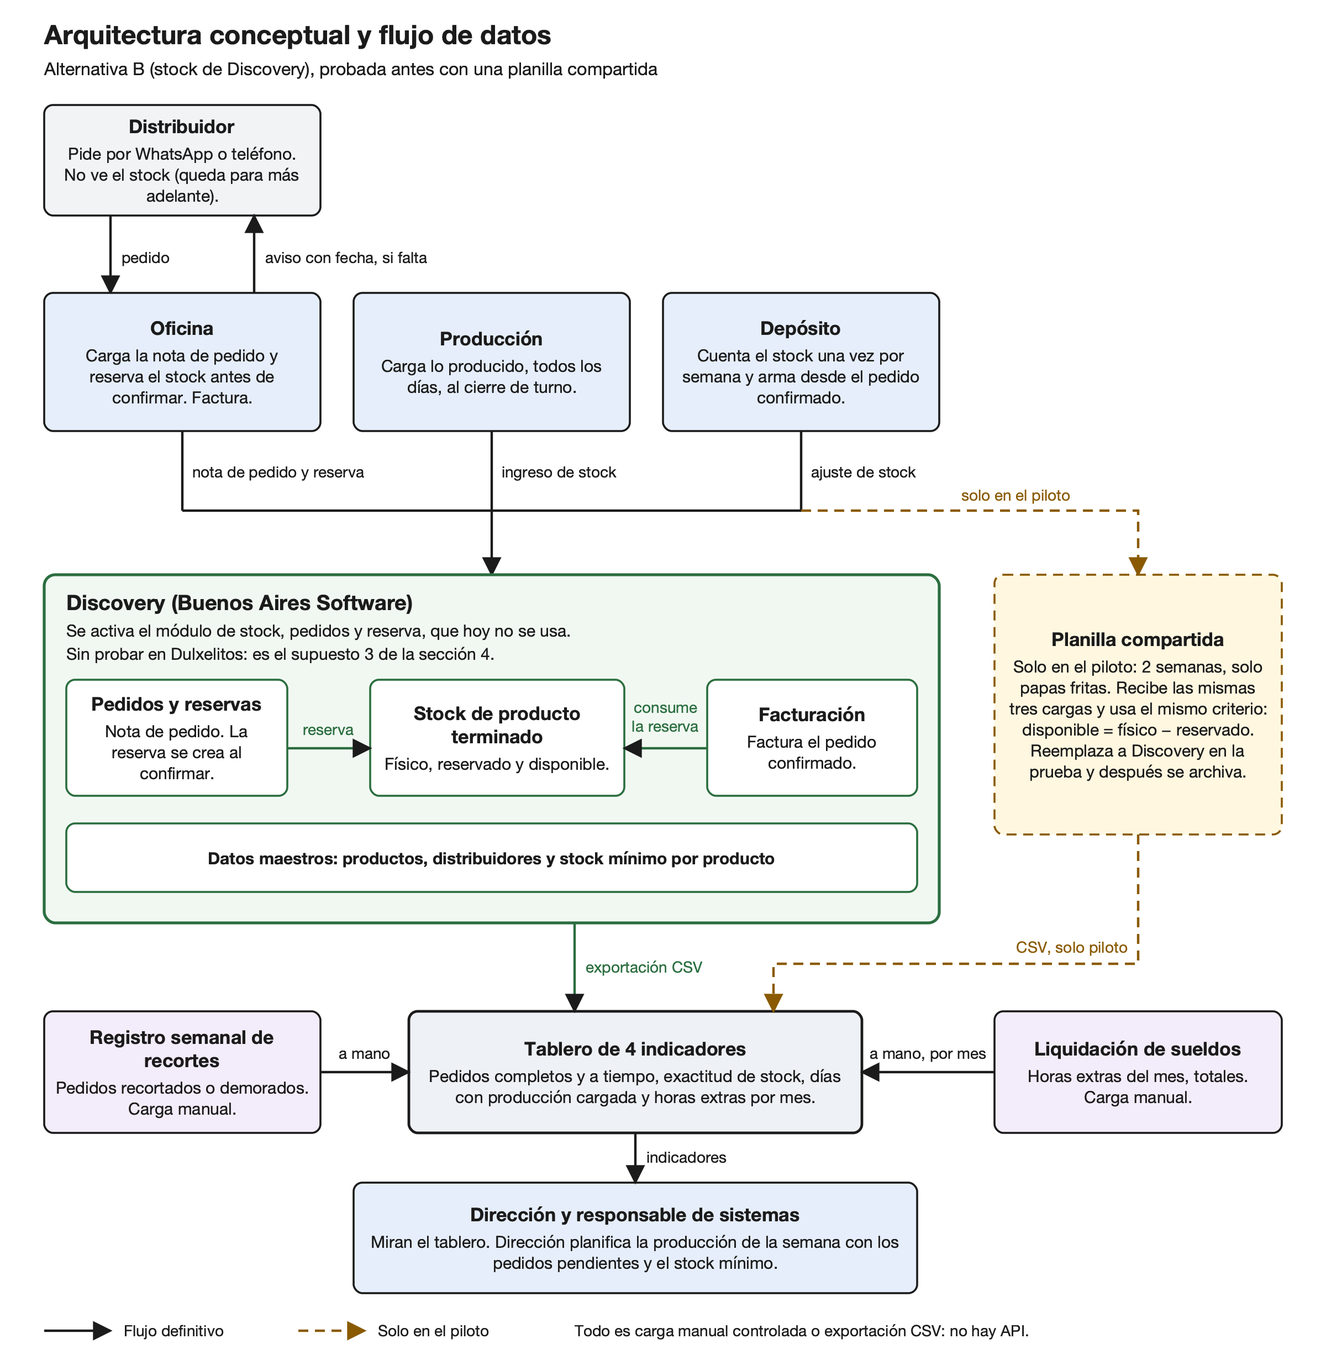
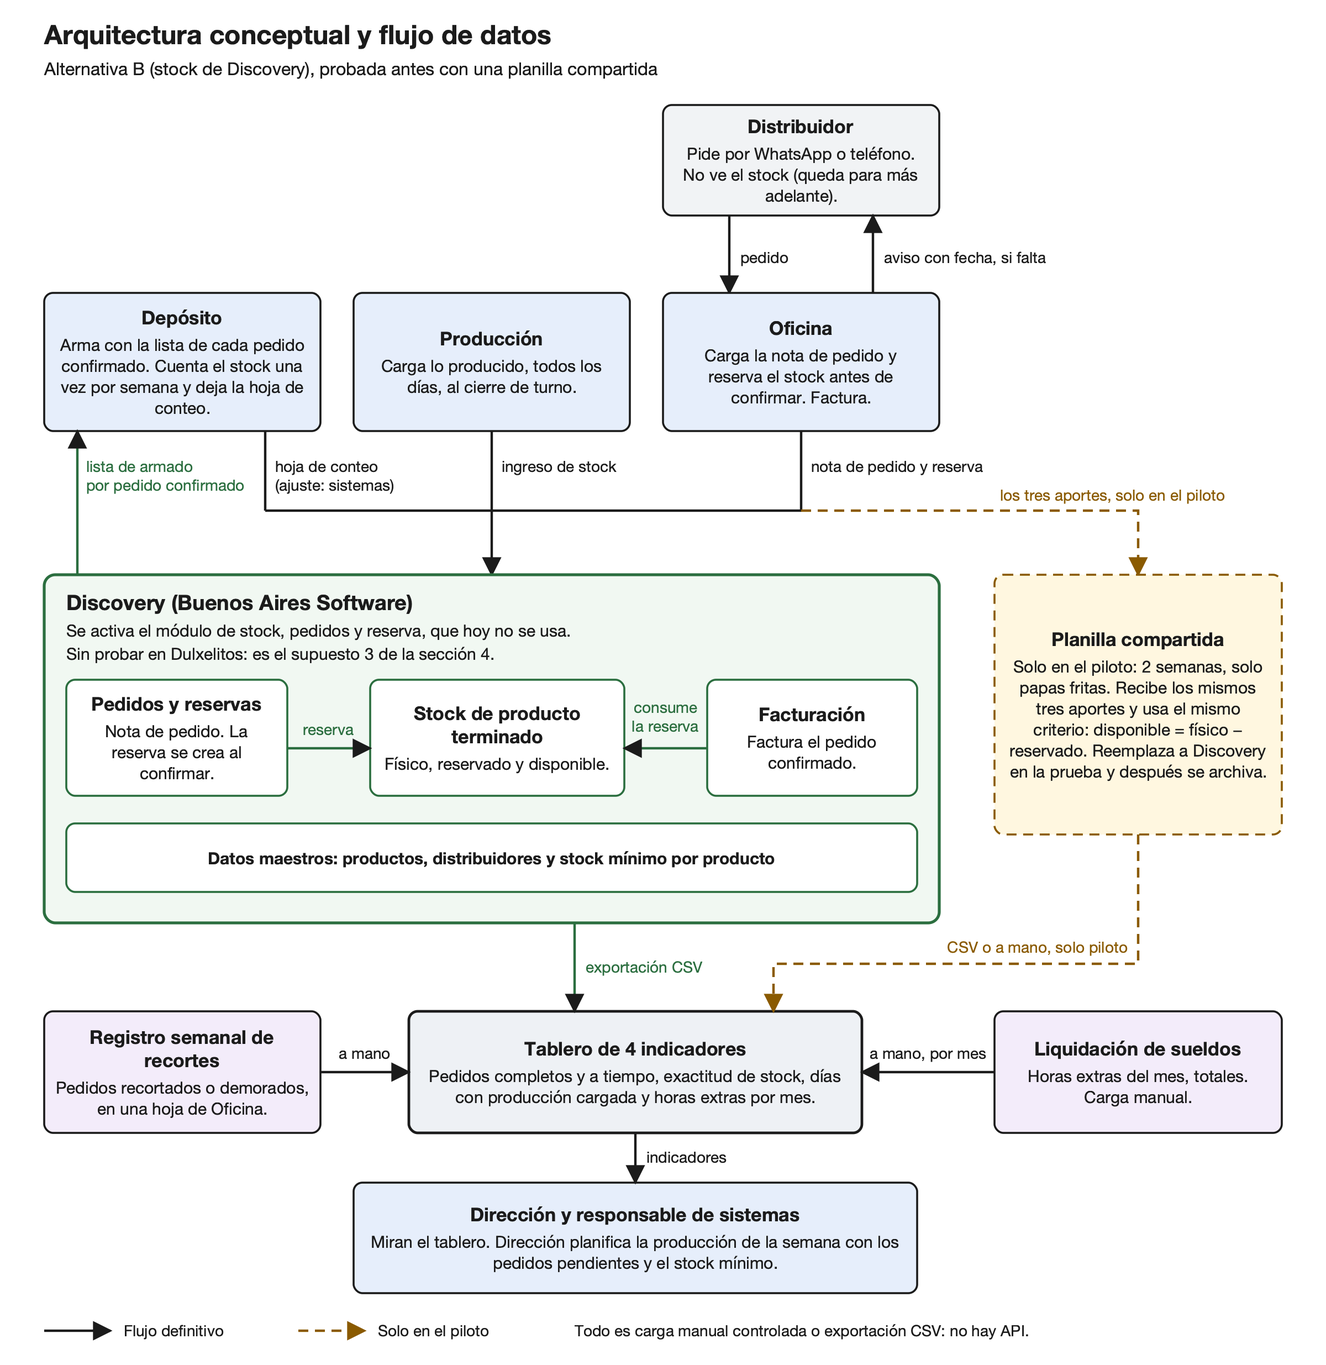
Sección 6: roles coherentes, lista de armado y correcciones de revisión
El ajuste de conteo lo carga el responsable de sistemas (única excepción: el
parte de producción mal cargado). Se agrega el flujo Discovery a Depósito
(lista de armado) en datos, integraciones y diagrama. La licencia del módulo
queda como supuesto atribuido y pendiente. Se corta la tabla repetida.

diff --git a/Material Campus/Proyecto Final/Proyecto Parte 2/diagramas/generar_arquitectura.py b/Material Campus/Proyecto Final/Proyecto Parte 2/diagramas/generar_arquitectura.py
@@ -117,11 +117,11 @@ texto(40, 40, "Arquitectura conceptual y flujo de datos", 24, "start", True)
 texto(40, 68, "Alternativa B (stock de Discovery), probada antes con una planilla compartida",
       16, "start")
 
-# columnas de las personas, encima del registro
-XO, XP, XD, WA = 40, 320, 600, 250          # Oficina, Produccion, Deposito; ancho
-CO, CP, CD = XO + WA / 2, XP + WA / 2, XD + WA / 2
+# columnas de las personas, encima del registro: Deposito, Produccion, Oficina
+XD, XP, XO, WA = 40, 320, 600, 250
+SD, SP, SO = 240, XP + WA / 2, XO + WA / 2   # donde baja la carga de cada una
 
-# fila 1: el distribuidor
+# fila 1: el distribuidor, encima de Oficina
 caja(XO, 95, WA, 100, "Distribuidor", "Pide por WhatsApp o teléfono. No ve el stock (queda para más adelante).",
      relleno="#f1f3f5")
 flecha([(XO + 60, 195), (XO + 60, 265)])
@@ -129,25 +129,32 @@ texto(XO + 70, 238, "pedido", 14, "start")
 flecha([(XO + 190, 265), (XO + 190, 195)])
 texto(XO + 200, 238, "aviso con fecha, si falta", 14, "start")
 
-# fila 2: quienes cargan
+# fila 2: quienes aportan datos
 AZUL = "#e6eefb"
-caja(XO, 265, WA, 125, "Oficina",
-     "Carga la nota de pedido y reserva el stock antes de confirmar. Factura.", relleno=AZUL)
+caja(XD, 265, WA, 125, "Depósito",
+     "Arma con la lista de cada pedido confirmado. Cuenta el stock una vez por semana y "
+     "deja la hoja de conteo.", relleno=AZUL)
 caja(XP, 265, WA, 125, "Producción",
      "Carga lo producido, todos los días, al cierre de turno.", relleno=AZUL)
-caja(XD, 265, WA, 125, "Depósito",
-     "Cuenta el stock una vez por semana y arma desde el pedido confirmado.", relleno=AZUL)
+caja(XO, 265, WA, 125, "Oficina",
+     "Carga la nota de pedido y reserva el stock antes de confirmar. Factura.", relleno=AZUL)
+
+# Discovery le devuelve a Deposito la lista de armado (flecha hacia arriba, sin cruzar el bus)
+flecha([(70, 520), (70, 390)], color="#2b6e3f")
+texto(78, 427, "lista de armado", 14, "start", color="#2b6e3f")
+texto(78, 444, "por pedido confirmado", 14, "start", color="#2b6e3f")
 
 # bus: las tres cargas entran juntas a Discovery (solido) o a la planilla (punteado, piloto)
 Y_BUS = 462
-for cx, et in ((CO, "nota de pedido y reserva"), (CP, "ingreso de stock"), (CD, "ajuste de stock")):
+for cx, et in ((SD, "hoja de conteo"), (SP, "ingreso de stock"), (SO, "nota de pedido y reserva")):
     flecha([(cx, 390), (cx, Y_BUS)], punta=False)
-    texto(cx + 9, 432, et, 14, "start")
-flecha([(CO, Y_BUS), (CD, Y_BUS)], punta=False)
+    texto(cx + 9, 427, et, 14, "start")
+texto(SD + 9, 444, "(ajuste: sistemas)", 14, "start")
+flecha([(SD, Y_BUS), (SO, Y_BUS)], punta=False)
 X_PLAN = 1030
-flecha([(CD, Y_BUS), (X_PLAN, Y_BUS), (X_PLAN, 520)], punteada=True, color="#8a5a00")
-texto(870, Y_BUS - 9, "solo en el piloto", 14, "start", color="#8a5a00")
-flecha([(CP, Y_BUS), (CP, 520)])
+flecha([(SO, Y_BUS), (X_PLAN, Y_BUS), (X_PLAN, 520)], punteada=True, color="#8a5a00")
+texto(905, Y_BUS - 9, "los tres aportes, solo en el piloto", 14, "start", color="#8a5a00")
+flecha([(SP, Y_BUS), (SP, 520)])
 
 # fila 3: Discovery y la planilla
 XDI, YDI, WDI, HDI = 40, 520, 810, 315
@@ -174,7 +181,7 @@ texto(445, 782, "Datos maestros: productos, distribuidores y stock mínimo por p
       15, "middle", True)
 
 caja(900, 520, 260, 235, "Planilla compartida",
-     "Solo en el piloto: 2 semanas, solo papas fritas. Recibe las mismas tres cargas y usa el "
+     "Solo en el piloto: 2 semanas, solo papas fritas. Recibe los mismos tres aportes y usa el "
      "mismo criterio: disponible = físico − reservado. Reemplaza a Discovery en la prueba y "
      "después se archiva.",
      relleno="#fff7e0", borde="#8a5a00", punteada=True)
@@ -182,21 +189,21 @@ caja(900, 520, 260, 235, "Planilla compartida",
 # fila 4: lo que alimenta al tablero
 YT, HT = 915, 110
 XT, WT = 370, 410
-caja(XO, YT, WA, HT, "Registro semanal de recortes",
-     "Pedidos recortados o demorados. Carga manual.", relleno="#f3ecfa")
+caja(40, YT, 250, HT, "Registro semanal de recortes",
+     "Pedidos recortados o demorados, en una hoja de Oficina.", relleno="#f3ecfa")
 caja(900, YT, 260, HT, "Liquidación de sueldos", "Horas extras del mes, totales. Carga manual.",
      relleno="#f3ecfa")
 caja(XT, YT, WT, HT, "Tablero de 4 indicadores",
      "Pedidos completos y a tiempo, exactitud de stock, días con producción cargada y horas "
      "extras por mes.", relleno="#eef1f5", trazo=2.4)
-flecha([(XO + WA, YT + 55), (XT, YT + 55)])
-texto((XO + WA + XT) / 2, YT + 43, "a mano", 14)
+flecha([(40 + 250, YT + 55), (XT, YT + 55)])
+texto((40 + 250 + XT) / 2, YT + 43, "a mano", 14)
 flecha([(900, YT + 55), (XT + WT, YT + 55)])
 texto((900 + XT + WT) / 2, YT + 43, "a mano, por mes", 14)
 flecha([(520, 835), (520, YT)], color=VERDE)
 texto(530, 880, "exportación CSV", 14, "start", color=VERDE)
 flecha([(X_PLAN, 755), (X_PLAN, 872), (700, 872), (700, YT)], punteada=True, color="#8a5a00")
-texto(1020, 862, "CSV, solo piloto", 14, "end", color="#8a5a00")
+texto(1020, 862, "CSV o a mano, solo piloto", 14, "end", color="#8a5a00")
 
 # fila 5: quien mira
 caja(320, 1070, 510, 100, "Dirección y responsable de sistemas",

diff --git a/Material Campus/Proyecto Final/Proyecto Parte 2/06 - Arquitectura y datos.md b/Material Campus/Proyecto Final/Proyecto Parte 2/06 - Arquitectura y datos.md
@@ -2,7 +2,7 @@
 
 Esta sección dibuja la alternativa recomendada (la B: el stock de Discovery, probado antes con una planilla compartida) como cajas y flechas, y dice qué datos se mueven, quién los carga, cómo pasan de un lugar a otro y qué reglas los mantienen limpios. Parte de lo que corrige la sección 1: el stock de producto terminado no se registra. Por eso lo primero que dibujamos es el lugar donde va a vivir.
 
-La guía de la cátedra pregunta si una empresa chica necesita un diagrama de la NASA o un flujo simple. Para una pyme de 15 a 20 personas la respuesta es el flujo simple, y lo planteamos así: **un solo sistema, y ya lo tienen.** Es Discovery, que hoy usan para facturar. A eso se suman una planilla compartida que existe solo durante el piloto de 2 semanas y un tablero con cuatro indicadores. No hay nada que comprar, ninguna integración automática y ningún canal nuevo: tres áreas cargan datos en un solo lugar, y de ahí salen los números que miran la dirección y el responsable de sistemas.
+La guía de la cátedra pregunta si una empresa chica necesita un diagrama de la NASA o un flujo simple. Para una pyme de 15 a 20 personas la respuesta es el flujo simple, y lo planteamos así: **un solo sistema, y ya lo tienen.** Es Discovery, que hoy usan para facturar. A eso se suman una planilla compartida que existe solo durante el piloto de 2 semanas y un tablero con cuatro indicadores. No hay ningún sistema nuevo que comprar (el costo de activar el módulo de stock está pendiente, sección 4), ninguna integración automática y ningún canal nuevo: las áreas aportan sus datos a un solo lugar, y de ahí salen la lista para armar cada pedido y los números que miran la dirección y el responsable de sistemas.
 
 ## Diagrama
 
@@ -10,23 +10,13 @@ La guía de la cátedra pregunta si una empresa chica necesita un diagrama de la
 
 ### Cómo se lee
 
-- **Tres áreas cargan, un solo lugar guarda.** Oficina carga la nota de pedido y reserva el stock antes de confirmar. Producción carga lo producido todos los días, al cierre del turno. Depósito cuenta el stock una vez por semana y lo que encuentra se vuelve un ajuste. Las tres cargas entran juntas a Discovery.
+- **Tres áreas aportan, un solo lugar guarda.** Oficina carga la nota de pedido y reserva el stock antes de confirmar. Producción carga lo producido todos los días, al cierre del turno. Depósito cuenta el stock una vez por semana y deja la hoja de conteo, que el responsable de sistemas carga como ajuste. Los tres aportes entran juntos a Discovery. Y de Discovery sale, para cada pedido confirmado, la lista de armado que usa Depósito: es lo que se gana por cargar el pedido una sola vez.
 - **Una sola regla de stock.** Dentro de Discovery, **stock disponible = stock físico − reservado por pedidos confirmados sin facturar.** Oficina consulta el disponible antes de confirmar; la reserva lo baja, y la factura consume la reserva. La producción del día suma al stock físico y el conteo lo corrige.
-- **La planilla es solo del piloto.** Va punteada en el diagrama porque dura 2 semanas, con papas fritas, el producto que más falta. Recibe las mismas tres cargas y usa la misma regla de stock disponible. Después del Go/No-Go se archiva. Sirve para probar el hábito de la carga diaria antes de depender de Discovery.
-- **El tablero no guarda nada propio.** Muestra los cuatro indicadores de la sección 8 y se alimenta de tres lados: la exportación CSV de Discovery, el registro semanal de pedidos recortados o demorados y las horas extras de la liquidación de sueldos.
+- **La planilla de stock es solo del piloto.** Va punteada en el diagrama porque dura 2 semanas, con papas fritas, el producto que más falta. Recibe los mismos tres aportes (por eso el diagrama los muestra juntos antes de bifurcar) y usa la misma regla de stock disponible. Después del Go/No-Go se archiva. Sirve para probar el hábito de la carga diaria antes de depender de Discovery.
+- **El tablero no guarda nada propio.** Muestra los cuatro indicadores de la sección 8 y se alimenta de tres lados: la exportación CSV de Discovery, el registro semanal de pedidos recortados o demorados y las horas extras de la liquidación de sueldos. No hace falta otra herramienta: puede ser una hoja simple, y el formato lo fija la sección 8.
 - **El distribuidor queda afuera de los datos.** Sigue pidiendo por WhatsApp o teléfono y recibe el aviso con una fecha estimada si falta algo, pero no ve el stock. Esa visibilidad queda para "later" (sección 1).
 
-### Qué hay y qué no hay
-
-| Pieza | ¿Está? | Por qué |
-|---|---|---|
-| Discovery | Sí | Ya está en uso para facturar y el módulo de stock, pedidos y reserva está dentro de la licencia. Es la solución (alternativa B) |
-| Planilla compartida | Solo en el piloto | Es la alternativa A, usada como prueba. No queda como un segundo registro |
-| Tablero de indicadores | Sí, sin ser un sistema nuevo | Es una vista de cuatro números que se actualiza con los CSV y dos cargas manuales. Puede ser una hoja simple; el formato lo fija la sección 8 |
-| WhatsApp y teléfono | Sí, como hoy | Son el canal de pedidos. No sumamos WhatsApp Business ni CRM, que están fuera de alcance |
-| SaaS de gestión, API, conectores, tienda online, portal del distribuidor | No | El SaaS se evaluó y se descartó en la sección 2. El resto no hace falta para el problema y no entra en el alcance |
-
-**Lo que el diagrama da por cierto y no está probado.** Supone que el módulo de stock de Discovery permite pedidos y reserva, y que la facturación consume la reserva. Es lo que sabe nuestro compañero que trabaja en la empresa, pero nadie lo usó en Dulxelitos: es el supuesto 3 de la sección 4. Por eso el diseño de los datos no depende de la herramienta: la planilla del piloto maneja los mismos datos con la misma regla. Si Discovery no se comporta así, el flujo sigue en pie con la planilla (alternativa A) y lo único que cambia es dónde está el registro.
+**Lo que el diagrama da por cierto y no está probado.** Supone que el módulo de stock de Discovery permite pedidos y reserva, y que la facturación consume la reserva. Supone también que ese módulo está dentro de la licencia que ya pagan, y que activarlo no cuesta de más. Todo eso es lo que sabe nuestro compañero que trabaja en la empresa, pero nadie lo usó en Dulxelitos y falta confirmarlo con Buenos Aires Software (versión de Discovery, soporte incluido y costo de activarlo, que siguen pendientes en las secciones 4, 5 y 7). Es el supuesto 3 de la sección 4. Por eso el diseño de los datos no depende de la herramienta: la planilla del piloto maneja los mismos datos con la misma regla. Si Discovery no se comporta así, el flujo sigue en pie con la planilla (alternativa A) y lo único que cambia es dónde está el registro.
 
 ## Datos
 
@@ -51,9 +41,10 @@ Se generan todos los días con el trabajo. Son los que hoy no existen o están r
 | **Notas de pedido** (distribuidor, productos, cantidades) | Pedido del distribuidor por WhatsApp o teléfono, recibido por Oficina | Discovery | Confirmar sabiendo qué hay, armar el pedido, facturar y contar los pedidos recibidos. Reemplaza las tres transcripciones de hoy (chat, papel, lista) | Oficina |
 | **Reservas** (producto y cantidad por pedido confirmado sin facturar) | La nota de pedido, en el momento de confirmarla | Discovery (stock reservado) | Calcular el stock disponible. La factura la consume | Oficina |
 | **Partes de producción** (producto y cantidad producida en el día) | Producción, al cierre del turno | Discovery (suma al stock físico) | Tener el stock físico al día y planificar contra pedidos. Reemplaza al control semanal propio de Producción (falta confirmar qué contiene) | Responsable de carga del turno, con suplente |
-| **Conteos físicos** (producto, cantidad contada, fecha) | Depósito, en el conteo cíclico semanal | Discovery, como ajuste con motivo, y el cálculo de exactitud | Corregir el stock físico y medir la exactitud de stock. [dato pendiente: responsable del conteo inicial y del semanal] | Depósito |
-| **Facturas** | Discovery, cuando Oficina factura el pedido | Discovery | Cobrar y cerrar el pedido. Consume la reserva y baja el stock físico (a confirmar en el supuesto 3) | Oficina (facturación) |
-| **Registro semanal de pedidos recortados o demorados** | Oficina, que sabe qué pedidos salieron incompletos o fuera de plazo | Tablero | Indicador de pedidos completos y a tiempo. Es el registro que dio la semana base | Oficina* |
+| **Conteos físicos** (producto, cantidad contada, fecha) | Depósito, que cuenta y deja la hoja de conteo en el conteo cíclico semanal | Discovery, como ajuste con motivo que carga el responsable de sistemas, y el cálculo de exactitud | Corregir el stock físico y medir la exactitud de stock. [dato pendiente: responsable del conteo inicial y del semanal] | Depósito cuenta; responsable de sistemas carga el ajuste |
+| **Lista de armado** (productos y cantidades de cada pedido confirmado) | Discovery, a partir de la nota de pedido confirmada | Depósito, impresa o en pantalla | Armar el pedido desde un solo registro, sin volver a pasar el chat al papel y el papel a una lista. Ver el listado en Integraciones | Oficina, al confirmar el pedido |
+| **Facturas** | La nota de pedido confirmada, cuando Oficina factura | Discovery | Cobrar y cerrar el pedido. Consume la reserva y baja el stock físico (a confirmar en el supuesto 3) | Oficina (facturación) |
+| **Registro semanal de pedidos recortados o demorados** | Oficina, que sabe qué pedidos salieron incompletos o fuera de plazo, en una hoja compartida simple | Tablero | Indicador de pedidos completos y a tiempo. Es el registro que dio la semana base | Oficina* |
 | **Horas extras del mes** (totales) | Liquidación de sueldos | Tablero | Indicador de horas extras. La liquidación no distingue las planificadas de las no planificadas | Oficina (administración)* |
 
 ### Datos calculados
@@ -71,6 +62,7 @@ Nadie los carga: se calculan solos o con una fórmula fija.
 |---|---|---|---|---|
 | Pedido del distribuidor → Discovery | Carga manual, una sola vez, directo en Discovery | Al recibir el pedido; la reserva, al confirmarlo | Oficina | Producto y distribuidor se eligen de los maestros, no se escriben a mano. No se confirma sin consultar el disponible |
 | Producción → Discovery | Carga manual del parte del día | Todos los días, al cierre del turno | Responsable de carga del turno, con suplente | Una carga por producto producido. Si un día no se carga, el indicador de días con producción cargada lo muestra |
+| Discovery → Depósito | Lista de armado por pedido confirmado, impresa o en pantalla [dato pendiente: qué listado de armado emite Discovery] | Al confirmar cada pedido | Oficina confirma; Depósito arma | Depósito arma solo desde pedidos confirmados, que ya tienen la reserva hecha |
 | Depósito → Discovery | Hoja de conteo, y después el ajuste cargado a mano | Una vez por semana | Depósito cuenta; el responsable de sistemas carga el ajuste | Se compara contra Discovery antes de ajustar. La diferencia queda registrada y es la exactitud de stock |
 | Discovery → tablero | Exportación CSV | Cada semana* | Responsable de sistemas | Los totales del tablero se pueden recalcular desde el CSV. Si el resultado no coincide con Discovery, manda Discovery |
 | Registro de recortes → tablero | Carga manual | Cada semana* | Oficina* | Se anota un pedido por línea, con el motivo del recorte o de la demora |
@@ -83,7 +75,8 @@ Nadie los carga: se calculan solos o con una fórmula fija.
 
 **Lo que no integramos y por qué.**
 
-- **WhatsApp con Discovery.** El pedido sigue entrando por chat y se carga a mano. Conectarlos pediría una API que no existe y un CRM, que es otro problema y está fuera de alcance.
+- **WhatsApp con Discovery.** El pedido sigue entrando por chat y se carga a mano. Conectarlos pediría una API que no existe y un CRM, que es otro problema y está fuera de alcance. Tampoco sumamos WhatsApp Business.
+- **SaaS de gestión, tienda online y portal del distribuidor.** El SaaS se evaluó y se descartó en la sección 2. La tienda y el portal no hacen falta para este problema y quedan fuera del alcance.
 - **Discovery con el distribuidor.** El distribuidor no consulta el stock. Primero tiene que haber un stock confiable; recién después se le puede mostrar ("later").
 - **Costeo, listas de precios, insumos y packaging.** No son parte de este problema (sección 1).
 
@@ -91,7 +84,7 @@ Nadie los carga: se calculan solos o con una fórmula fija.
 
 Las reglas valen para los datos críticos: el stock físico, las reservas, los productos, los distribuidores y el stock mínimo. Son simples a propósito, porque las tiene que poder cumplir una empresa de 15 a 20 personas con la planta saturada. Tres principios las sostienen:
 
-1. **Un solo lugar por dato.** Cada dato vive en Discovery. La planilla solo existe en el piloto, y solo para el producto del piloto.
+1. **Un solo lugar por dato.** Cada dato de pedidos y stock vive en Discovery. La planilla de stock solo existe en el piloto, y solo para el producto del piloto. Dos datos viven afuera porque Discovery no los tiene: el registro semanal de recortes, en una hoja compartida simple que lleva Oficina, y las horas extras, que salen de la liquidación de sueldos.
 2. **No se borra, se corrige.** Un error se arregla con un movimiento nuevo y un motivo escrito, que deja rastro. Nadie pisa un número.
 3. **Lo que se cuenta manda sobre lo que se cargó.** Si el conteo físico y Discovery no coinciden, se corrige Discovery.
 
@@ -99,10 +92,10 @@ Las reglas valen para los datos críticos: el stock físico, las reservas, los p
 
 | Rol | Puede cargar | No toca |
 |---|---|---|
-| Oficina | Notas de pedido, reservas y facturas | El stock físico |
-| Producción (responsable de carga del turno y suplente) | Partes de producción | Reservas ni facturas |
+| Oficina | Notas de pedido, reservas, facturas y altas de distribuidores | El stock físico ni los productos |
+| Producción (responsable de carga del turno y suplente) | Partes de producción, y la corrección de sus propios partes el mismo día | Reservas ni facturas |
 | Depósito | La hoja de conteo | Los ajustes de stock |
-| Responsable de sistemas | Maestros, ajustes de stock y permisos | Pedidos ni partes, salvo para corregirlos |
+| Responsable de sistemas | Productos y stock mínimo, ajustes de stock, depuración de maestros y permisos | Pedidos ni partes, salvo para corregirlos |
 | Dirección | Fija el stock mínimo y pide las altas de productos | Discovery: no carga ahí |
 
 Si Discovery no permite separar los permisos así, la regla se sostiene por procedimiento y se revisa en el conteo semanal. Varias de estas tareas caen en el responsable de sistemas (ajustes, maestros, exportación), así que el tiempo que puede dedicarle cada semana, que la sección 5 deja como dato pendiente, también decide si las reglas se sostienen.
@@ -119,10 +112,10 @@ Si Discovery no permite separar los permisos así, la regla se sostiene por proc
 ### Corrección
 
 - **Diferencia de conteo.** Manda lo contado. Depósito deja la hoja de conteo; el responsable de sistemas carga un ajuste con motivo (rotura, error de carga, merma u otro) y avisa a Producción si la diferencia viene de un parte. No se edita el stock directamente. Si el mismo producto difiere semana tras semana, el motivo se trata en la reunión diaria.
-- **Parte de producción mal cargado.** Lo corrige el mismo día quien lo cargó, con un ajuste que resta lo mal cargado y carga lo correcto. Si se descubre después, lo recoge el conteo.
+- **Parte de producción mal cargado.** Lo corrige el mismo día el responsable de carga del turno, que es quien lo cargó, con una corrección que resta lo mal cargado y carga lo correcto. Es la única corrección de stock que no pasa por el responsable de sistemas. Si se descubre después, lo recoge el conteo y el ajuste ya es del responsable de sistemas.
 - **Nota de pedido equivocada.** Antes de facturar se corrige la nota y se rehace la reserva. Una factura emitida no se edita: se corrige con el procedimiento contable que ya usa administración, y si la mercadería quedó mal, se ajusta por conteo.
 - **Reserva que no corresponde.** La libera Oficina, que fue quien la creó, y deja el motivo (el distribuidor canceló, el pedido se rehízo, se cargó mal).
-- **Quién corrige.** Quien cargó el dato, salvo los ajustes de stock y los maestros, que son del responsable de sistemas. En todos los casos con motivo escrito.
+- **Quién corrige.** Quien cargó el dato. Los ajustes de stock físico son del responsable de sistemas, con una sola excepción: el parte de producción mal cargado, que corrige el mismo día quien lo cargó. Los productos y su depuración son del responsable de sistemas; los distribuidores, de Oficina. En todos los casos con motivo escrito.
 
 ### Depuración
 
